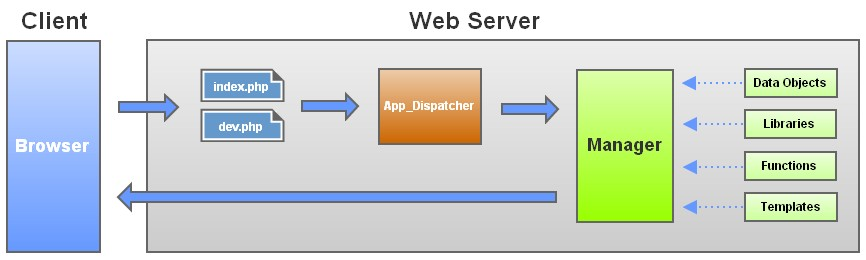
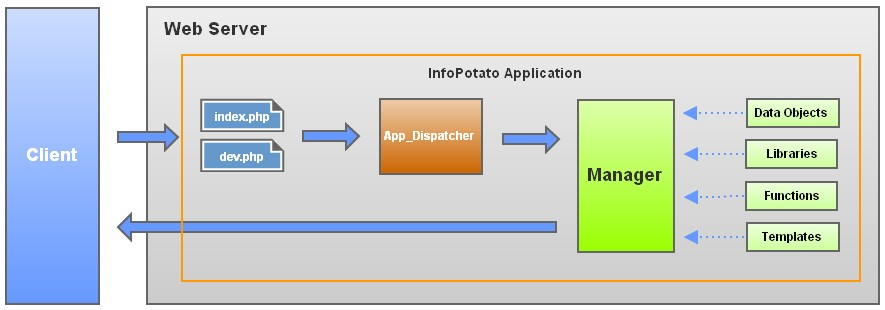
updated workflow picture

Changed region(s): [[0.0, 0.0, 0.9977, 0.9846]]

diff --git a/application/templates/pages/documentation_workflow.php b/application/templates/pages/documentation_workflow.php
@@ -32,29 +32,29 @@ There are two types of requests, <strong>Static requests</strong> and <strong>Ap
 
 <h2>Request -> Dispatcher - > (Manager -> Response) Lifecycle</h2>
 <p>
-Every request handled by an InfoPotato application goes through the same basic lifecycle. The framework takes care of the repetitive tasks and ultimately executes a manager, which houses your custom application code:
+Every request handled by an InfoPotato application goes through the same basic lifecycle. The framework takes care of the repetitive tasks and ultimately executes a manager, which houses your custom application code. The picture below shows the basic workflow of an application request processed by InfoPotato.
 </p>
 
 <div class="content_image"> 
 <p><strong>A typical workflow of InfoPotato application</strong></p> 
-<img src="<?php echo STATIC_URI_BASE; ?>images/content/workflow.jpg" width="876" height="238" alt="Application Workflow" /> 
+<img src="<?php echo STATIC_URI_BASE; ?>images/content/workflow.png" width="886" height="314" alt="InfoPotato Application Workflow" /> 
 </div> 
 
 <ol> 
 <li>
-The end user interacts with the client (browser, web services client) and the client sends a request to the web server.
+The end user interacts (for example, by clicking on a hyperlink or entering a Web site address) with the client (browser, web services client) to make an HTTP request, and then the client sends this request to the web server.
 </li> 
 <li>
-The web server receives the request and passes it to a entry script (e.g., index.php, dev.php) which is responsible for bootstrapping the framework by invoking App_Dispatcher;
+The web server receives the request and passes it to an InfoPotato application via a entry script (e.g., index.php, dev.php) which is responsible for bootstrapping the framework by invoking App_Dispatcher.
 </li> 
 <li>
-App_Dispatcher is the subclass of the core Dispatcher, which provides the actual request analysis. It reads the request information (parses the request method, the URI segments), and determines from the URI segments which manager and manager method should be called and what parameters to pass to the manager method;
+App_Dispatcher is the subclass of the core Dispatcher, which provides the actual incoming request analysis. It reads the request information (parses the request method, the URI segments), and determines from the URI segments which manager and manager method should be called and what parameters to pass to the manager method.
 </li> 
 <li>
-The manager is executed and the code inside the manaher prepares the resource identified by the incoming URI. Based on the request method (POST and GET are supported), the corresponding manager method will load and instantiate the needed resources (data objects, libraries, user-defined functions, the corresponding template files).
+The manager is invoked and prepares the resource identified by the incoming URI. Based on the request method (POST and GET are supported), the corresponding manager method will load and instantiate the components (data objects, libraries, user-defined functions, the corresponding template files) on demand.
 </li> 
 <li>
-The manager sends the HTTP headers and content of the response back to the client (web browser or web service client).
+When the manager finishes processing the request, it sends the HTTP response info (headers + body content) back to the web server and the web server forwards it to the client.
 </li>
 </ol> 
  

diff --git a/application/templates/pages/documentation_manager.php b/application/templates/pages/documentation_manager.php
@@ -27,7 +27,7 @@ Typically, a Manager is responsible for a few things:
 <li>loading data objects for SQL or NoSQL data access</li>
 <li>validating authentication and access levels</li>
 <li>interacting with data objects (business logic)</li>
-<li>setting template variables and rendering templates/sub-templates</li>
+<li>assigning template variables and "push" the data to the template to render the output result.</li>
 <li>rendering templates or redirecting to new URIs</li>
 </ul>
 

diff --git a/application/templates/css/main.css.php b/application/templates/css/main.css.php
@@ -296,14 +296,14 @@ padding:3px;
 .content_image {
 margin:10px auto 20px auto;
 background-color: #f4f4f4;
-border:1px solid #ddd;
-padding:20px;
+border:1px solid #ccc;
+padding:20px 10px;
 text-align: center;
 }
 
 .content_image img {
 background-color: #f4f4f4;
-border: 1px solid #ccc;
+border: 1px solid #ddd;
 margin: auto;
 }
 
